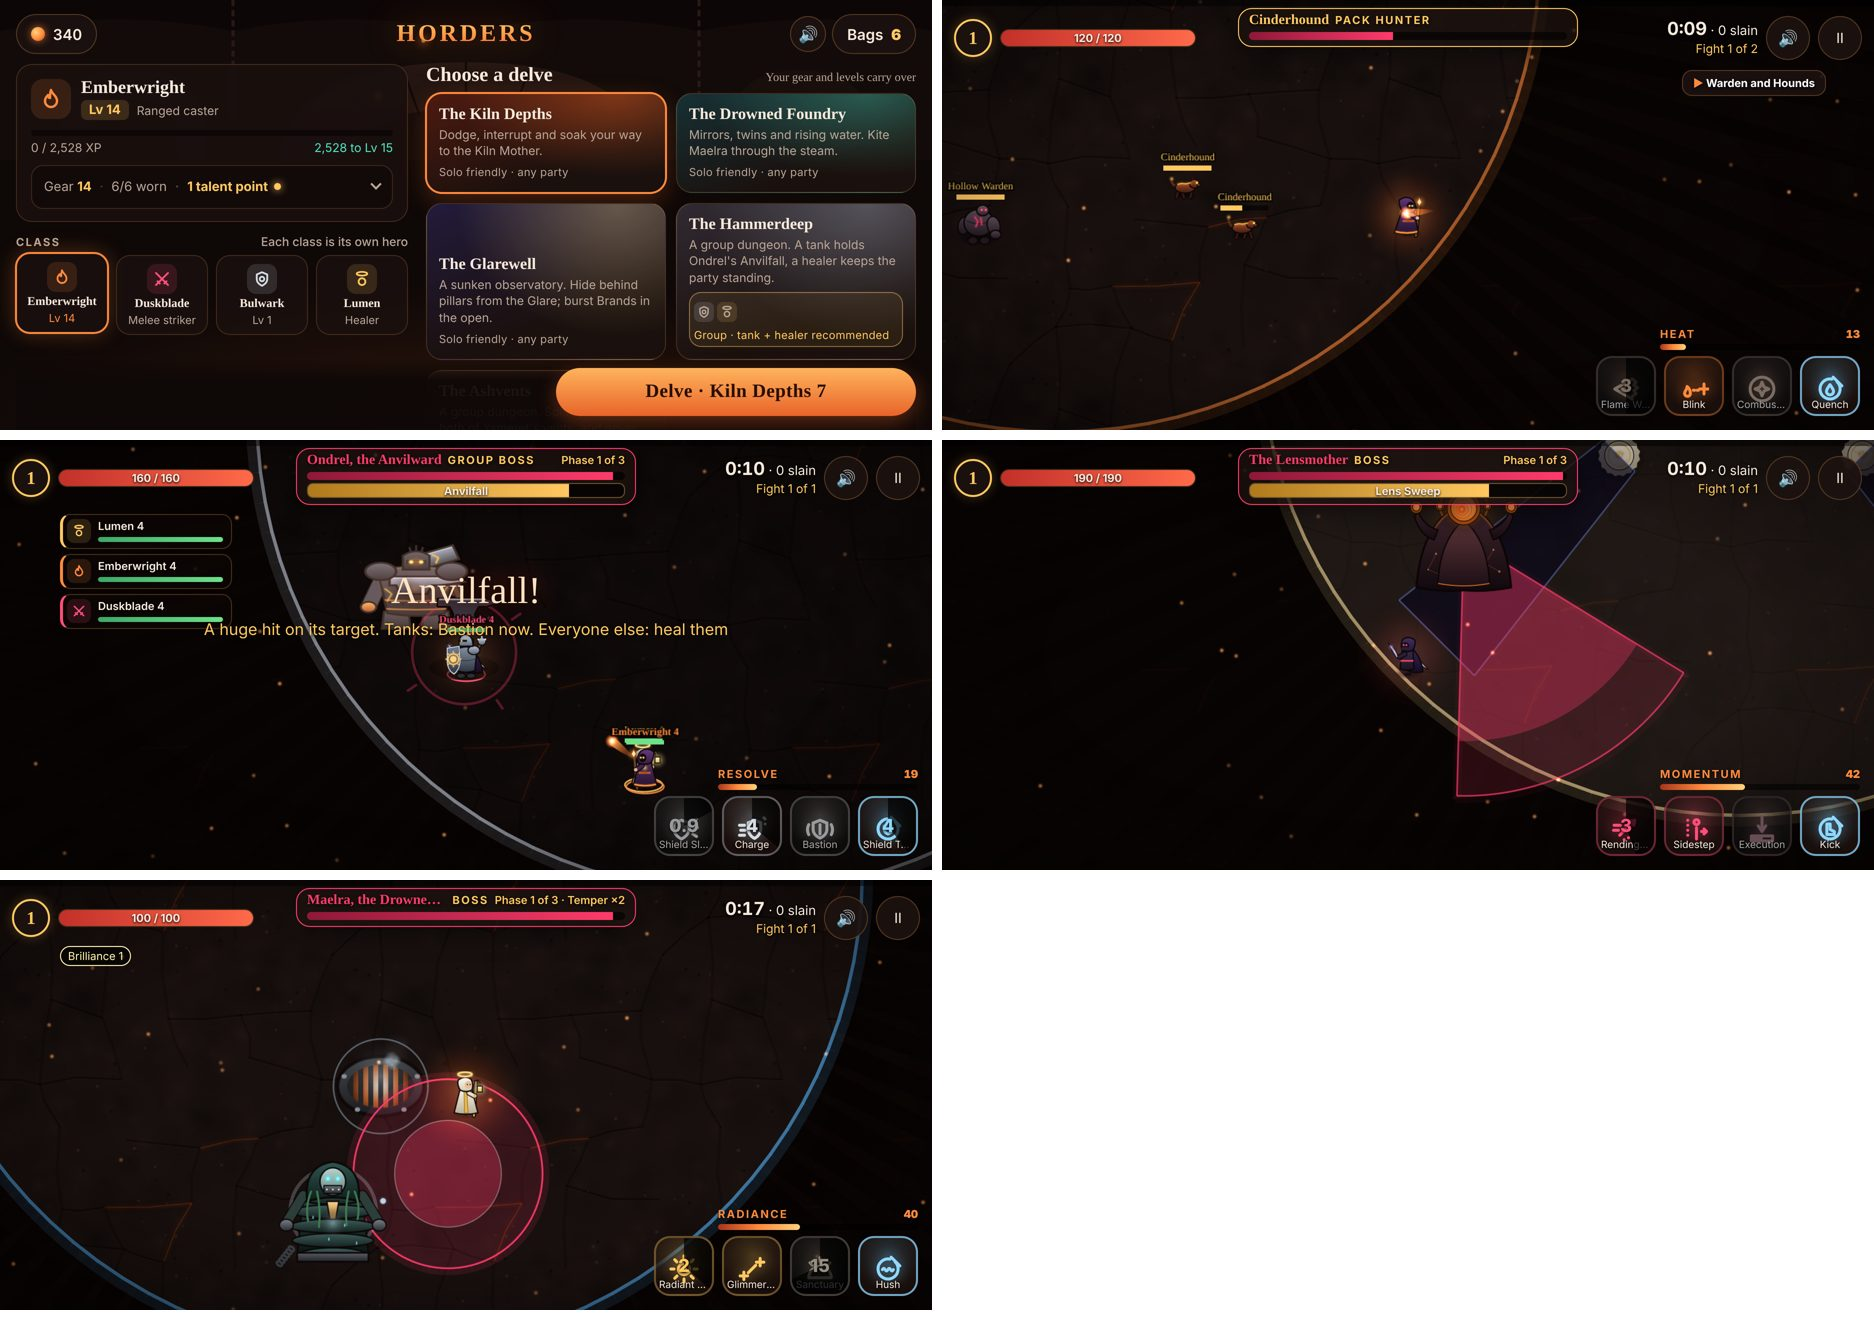
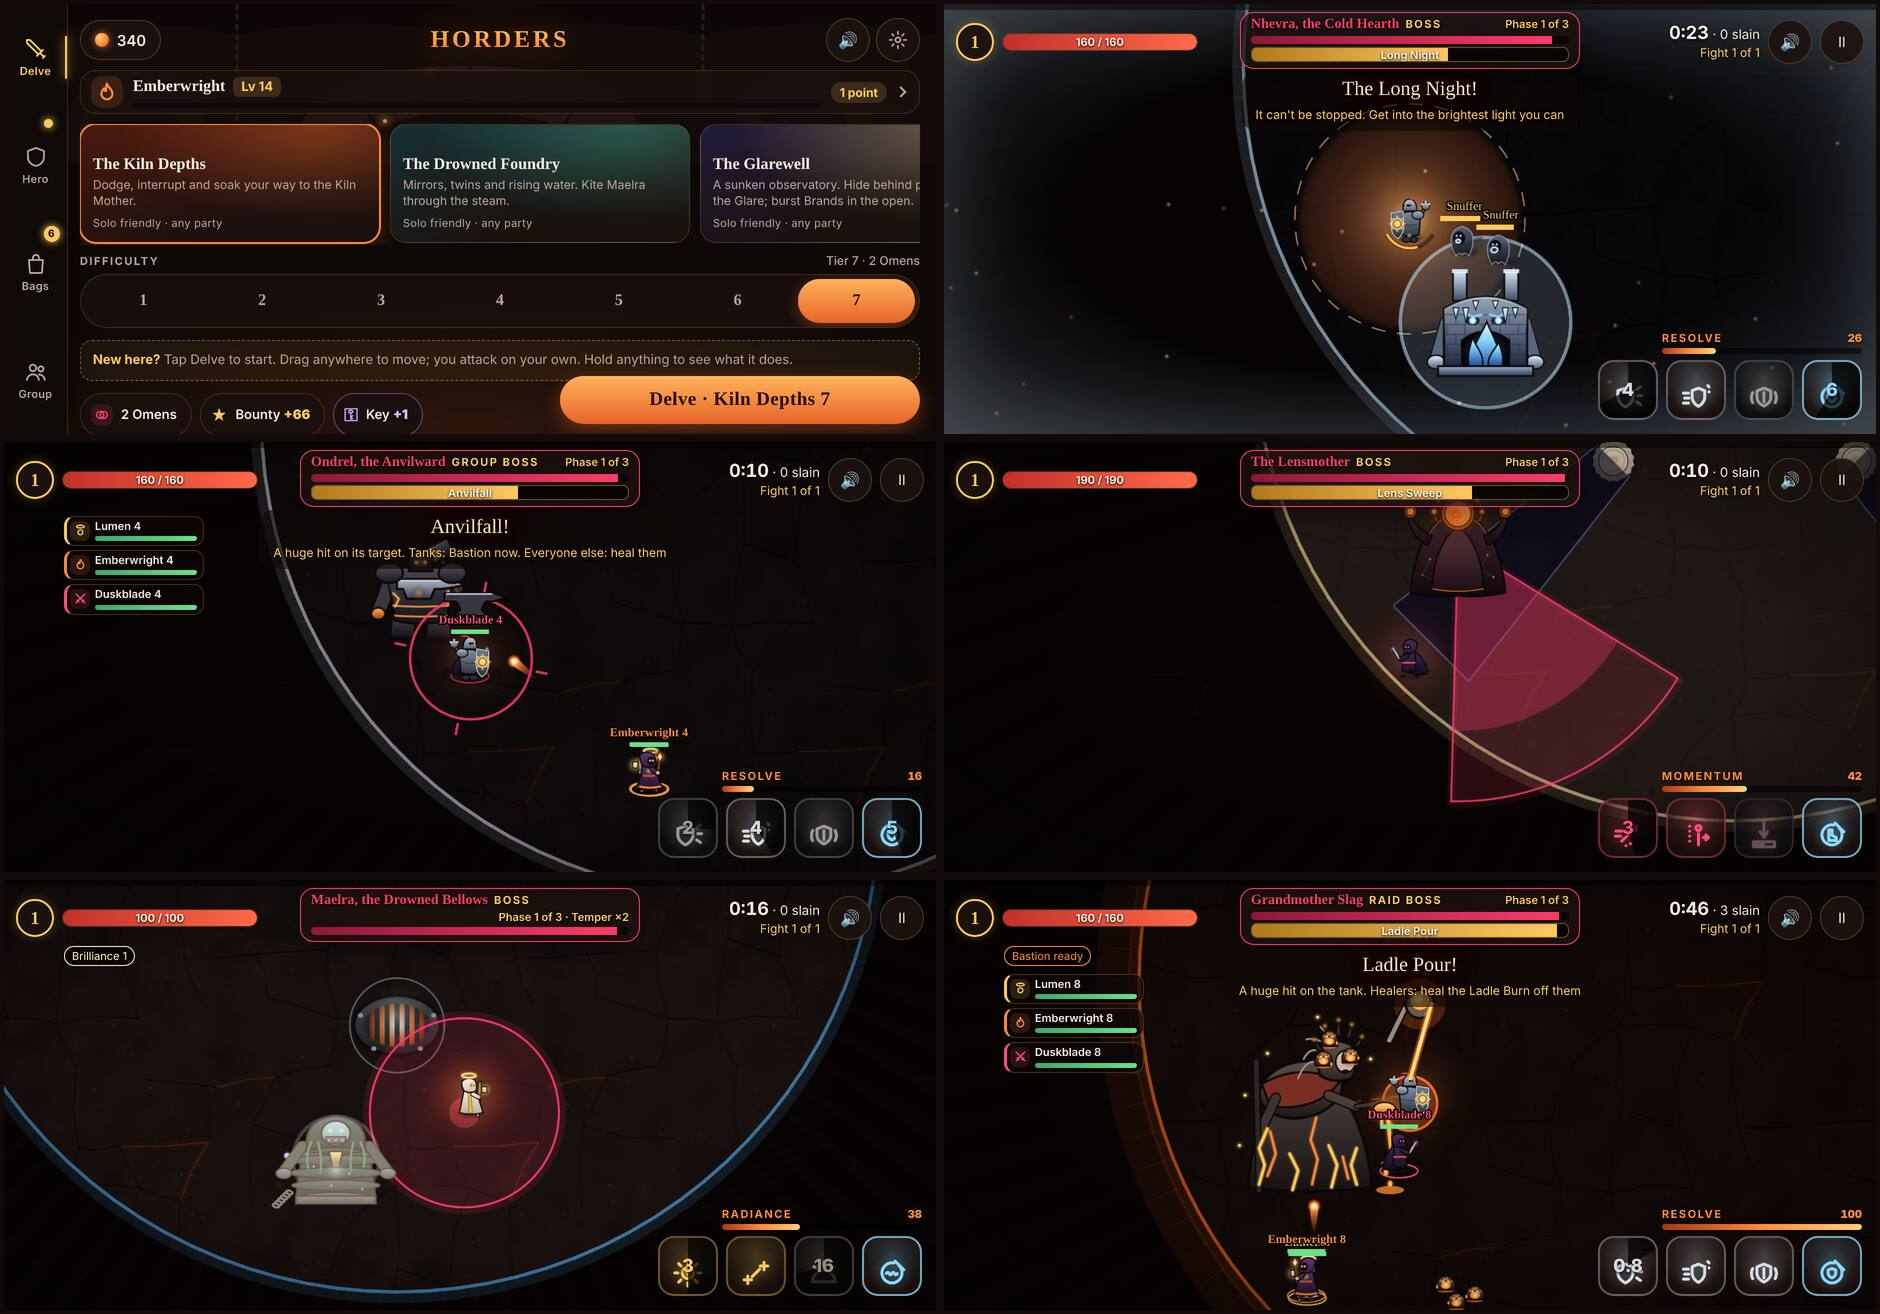
Store screenshots refreshed on the current UI: Nhevra's Long Night and the raid join the set
Shot 2 is now Nhevra winding up the Long Night (the pack fight often framed the
hero alone), and a sixth shot shows the raid with a Ladle Pour over the tank.
The hub shot shows the current hub (Coldmarrow and Crucible cards, phone tabs).
Phone hub buttons sit on another tab, so the tool clicks them from the page;
ONLY=<names> remakes chosen fights. Previews in docs/art/store/.

Claude-Session: https://claude.ai/code/session_012zrft5WLQzrCvekCDMSJ1X

diff --git a/docs/store/README.md b/docs/store/README.md
@@ -30,16 +30,17 @@ regenerated on demand. Previews of the current set are in `docs/art/store/`.
 | `landscape-*.png` | 2796 × 1290 | phone landscape |
 | `desktop-*.png` | 1920 × 1080 | web / desktop listing |
 
-The five shots, in store order:
+The six shots, in store order:
 
 1. **Hub**: the delve cards, difficulty tiers and this week's Omens.
-2. **Warden and Hounds**: a Kiln Depths pack fight.
+2. **Nhevra, the Cold Hearth**: the Coldmarrow boss winding up the Long Night, the floor going dark around the hero's Hearthcoal.
 3. **Ondrel, the Anvilward**: the Hammerdeep group boss with a full party of four,
    mid-Anvilfall, with the party frames and the tank call-out.
 4. **The Lensmother**: the Glarewell boss sweeping her lens.
 5. **Maelra, the Drowned Bellows**: the Drowned Foundry boss over her steam vents.
+6. **Grandmother Slag**: the raid, a party of four, a Ladle Pour tipping over the tank.
 
-Name a target to make only that set: `icons`, `phone`, `landscape`, `desktop`.
+Name a target to make only that set (and `ONLY=2-nhevra,6-raid` to remake only those fights): `icons`, `phone`, `landscape`, `desktop`.
 The game loads with `?hires=1` so the canvas renders at the full 3× of the phone sizes.
 
 ## Trailer capture
